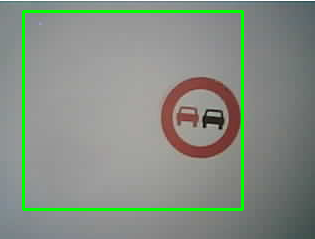
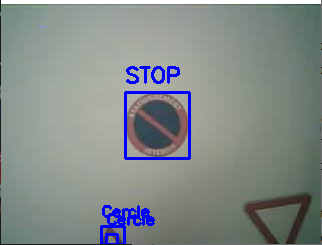
Nouveau programme de détourage plus efficace

Changed region(s): [[0.0, 0.0, 1.0, 1.0], [0.1143, 0.0879, 0.1429, 0.1172]]

diff --git a/MéthodePourAjouterUnObjet.md b/MéthodePourAjouterUnObjet.md
@@ -28,7 +28,7 @@ On doit aussi s'assurer que le set d'images on été déposées dans un dossier 
 
 ## Ensuite nous allons créer les descriptifs associés à chaque image. 
 
-Pour cela on exécute le programme `Python\SetDatasetXML.py`
+Pour cela on exécute le programme `Python\detourage.py`
 
 ![img_4.png](img_4.png)
 
